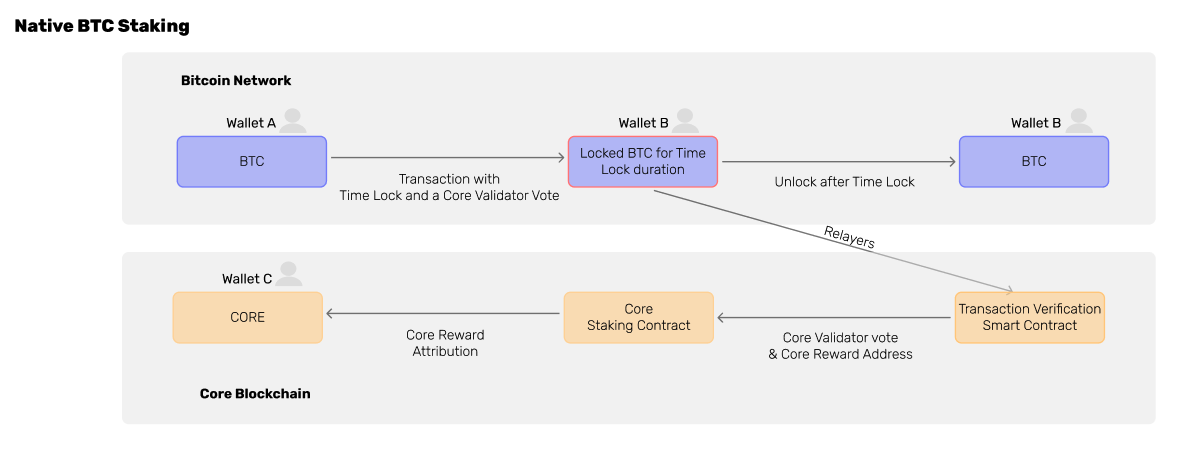
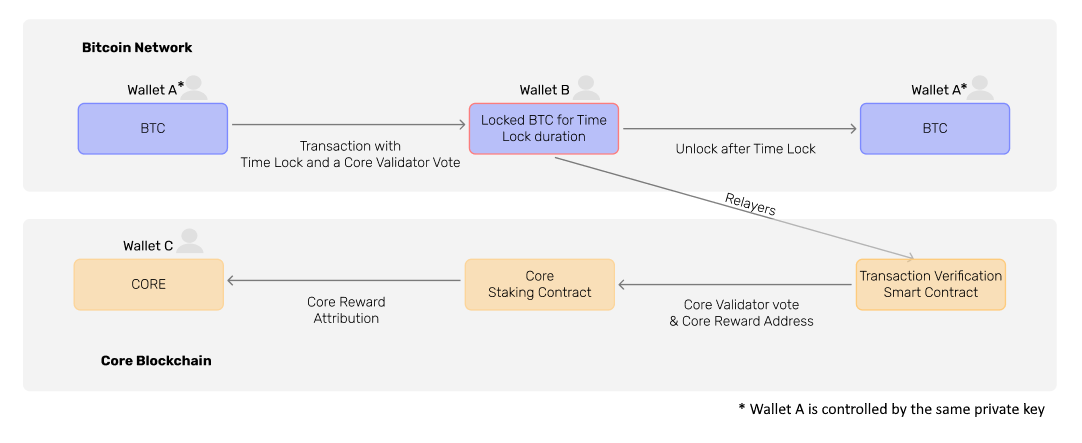
updated docs to reflect jack's comments

diff --git a/docs/Learn/products/btc-staking/design.md b/docs/Learn/products/btc-staking/design.md
@@ -67,7 +67,7 @@ The `OP_RETURN` output should contain all staking information in order, and be c
 - **`LENGTH`:** which represents the total byte length after the `OP_RETURN` opcode. _Note that all data has to be pushed with its appropriate size byte(s)_.
 - **`Satoshi Plus Identifier`:** (**SAT+**) 4 bytes
 - **`Version`:** (**0x01**) 1 byte
-- **`Chain ID`:** (e.g. **1115**) 2 bytes
+- **`Chain ID`:** (1115 for Core Testnet and 1116 for Core Mainnet) 2 bytes
 - **`Delegator`:** The Core address to receive rewards, 20 bytes
 - **`Validator`:** The Core validator address to stake to, 20 bytes
 - **`Fee`:** Fee for relayer, 1 byte, range [0,255], measured in CORE
@@ -120,7 +120,7 @@ The full hex of this output is `6a4c505341542b01045bde60b7d0e6b758ca5dd8c61d377a
 - `4c50` is the total byte length after the `OP_RETURN` opcode [1]
 - `5341542b` SAT+, which is satoshi plus identifier
 - `01` is version
-- `045b` 1115, which is chain id
+- `045b` 1115, which is chain id (1115 for Core Testnet and 1116 for Core Mainnet)
 - `de60b7d0e6b758ca5dd8c61d377a2c5f1af51ec1` is the reward address
 - `a9e209f5ea0036c8c2f41078a3cebee57d8a47d5` is the validator address
 - `01` is relayer fee, measured in CORE
@@ -151,6 +151,6 @@ In a strict sense, the BTC Native Staking process consists of two steps
 To make the entire process more convenient, Core DAO introduces the role of relayers. Relayers can help users submit transactions to the Core network after the staking transaction is confirmed on the Bitcoin network. Since it is necessary to verify the transaction on the Core network with the embedded Bitcoin light client, relayers needs to obtain the corresponding `RedeemScript` of the `P2SH/P2WSH` output. To meet this requirement, we suggest users to either
 
 - Put the entire `RedeemScript` at the end of the `OP_RETURN` output, if the script is short. e.g. a `RedeemScript` constructed using public key hash as shown in the sample above.
-- Set the receiving address of the staking transaction as their own so porters can extract useful information from the transaction input and compose the `RedeemScript` by themselves. E.g.
+- Set the receiving address of the staking transaction as their own so relayers can extract useful information from the transaction input and compose the `RedeemScript` by themselves. E.g.
     - If it's a normal address, the `pubkey` or `pubkey hash` should be set as the input's corresponding public key when constructing the `RedeemScript`.
     - If it is a multi-signature address, the corresponding multi-signature address's public key should be set when constructing the `RedeemScript`.

diff --git a/docs/Learn/products/btc-staking/overview.md b/docs/Learn/products/btc-staking/overview.md
@@ -62,6 +62,9 @@ Core DAO welcomes BTC holders to stake their BTC on the Bitcoin network. By voti
 ![btc-staking-flow](../../../../static/img/btc-staking/btc-staking-flow.png)
 
 Core DAO's implementation of BTC Native Staking is completely non-custodial, i.e., users can keep their BTC assets on the Bitcoin network without bridging them out before staking. Users are required to perform only the following steps:
+
 * Send a BTC transaction to their own address, and lock up the output whose amount is intended to stake on Core blockchain by using the Bitcoin native timelock feature. Besides, the transaction should also contain an `op_return` output in which users can designate the Core validator address to stake to and a `reward address` to receive CORE rewards. For details to compose such a staking transaction, please refer to the [transaction design](design.md).
+
 * (_Optional_) After the transaction is confirmed on the Bitcoin network, users can retrieve the transaction data and submit to the Core blockchain. This step is optional, if users compose the transaction in a standard format as suggested by Core DAO (defined in the [transaction design](design.md)). The Core infrastructure will detect the staking transaction and submit it to Core blockchain for users.
+
 * When the timelock expires, users can spend the UTXO using the corresponding redeem script. It is easy for them to build the redeem script from the original staking transaction.
